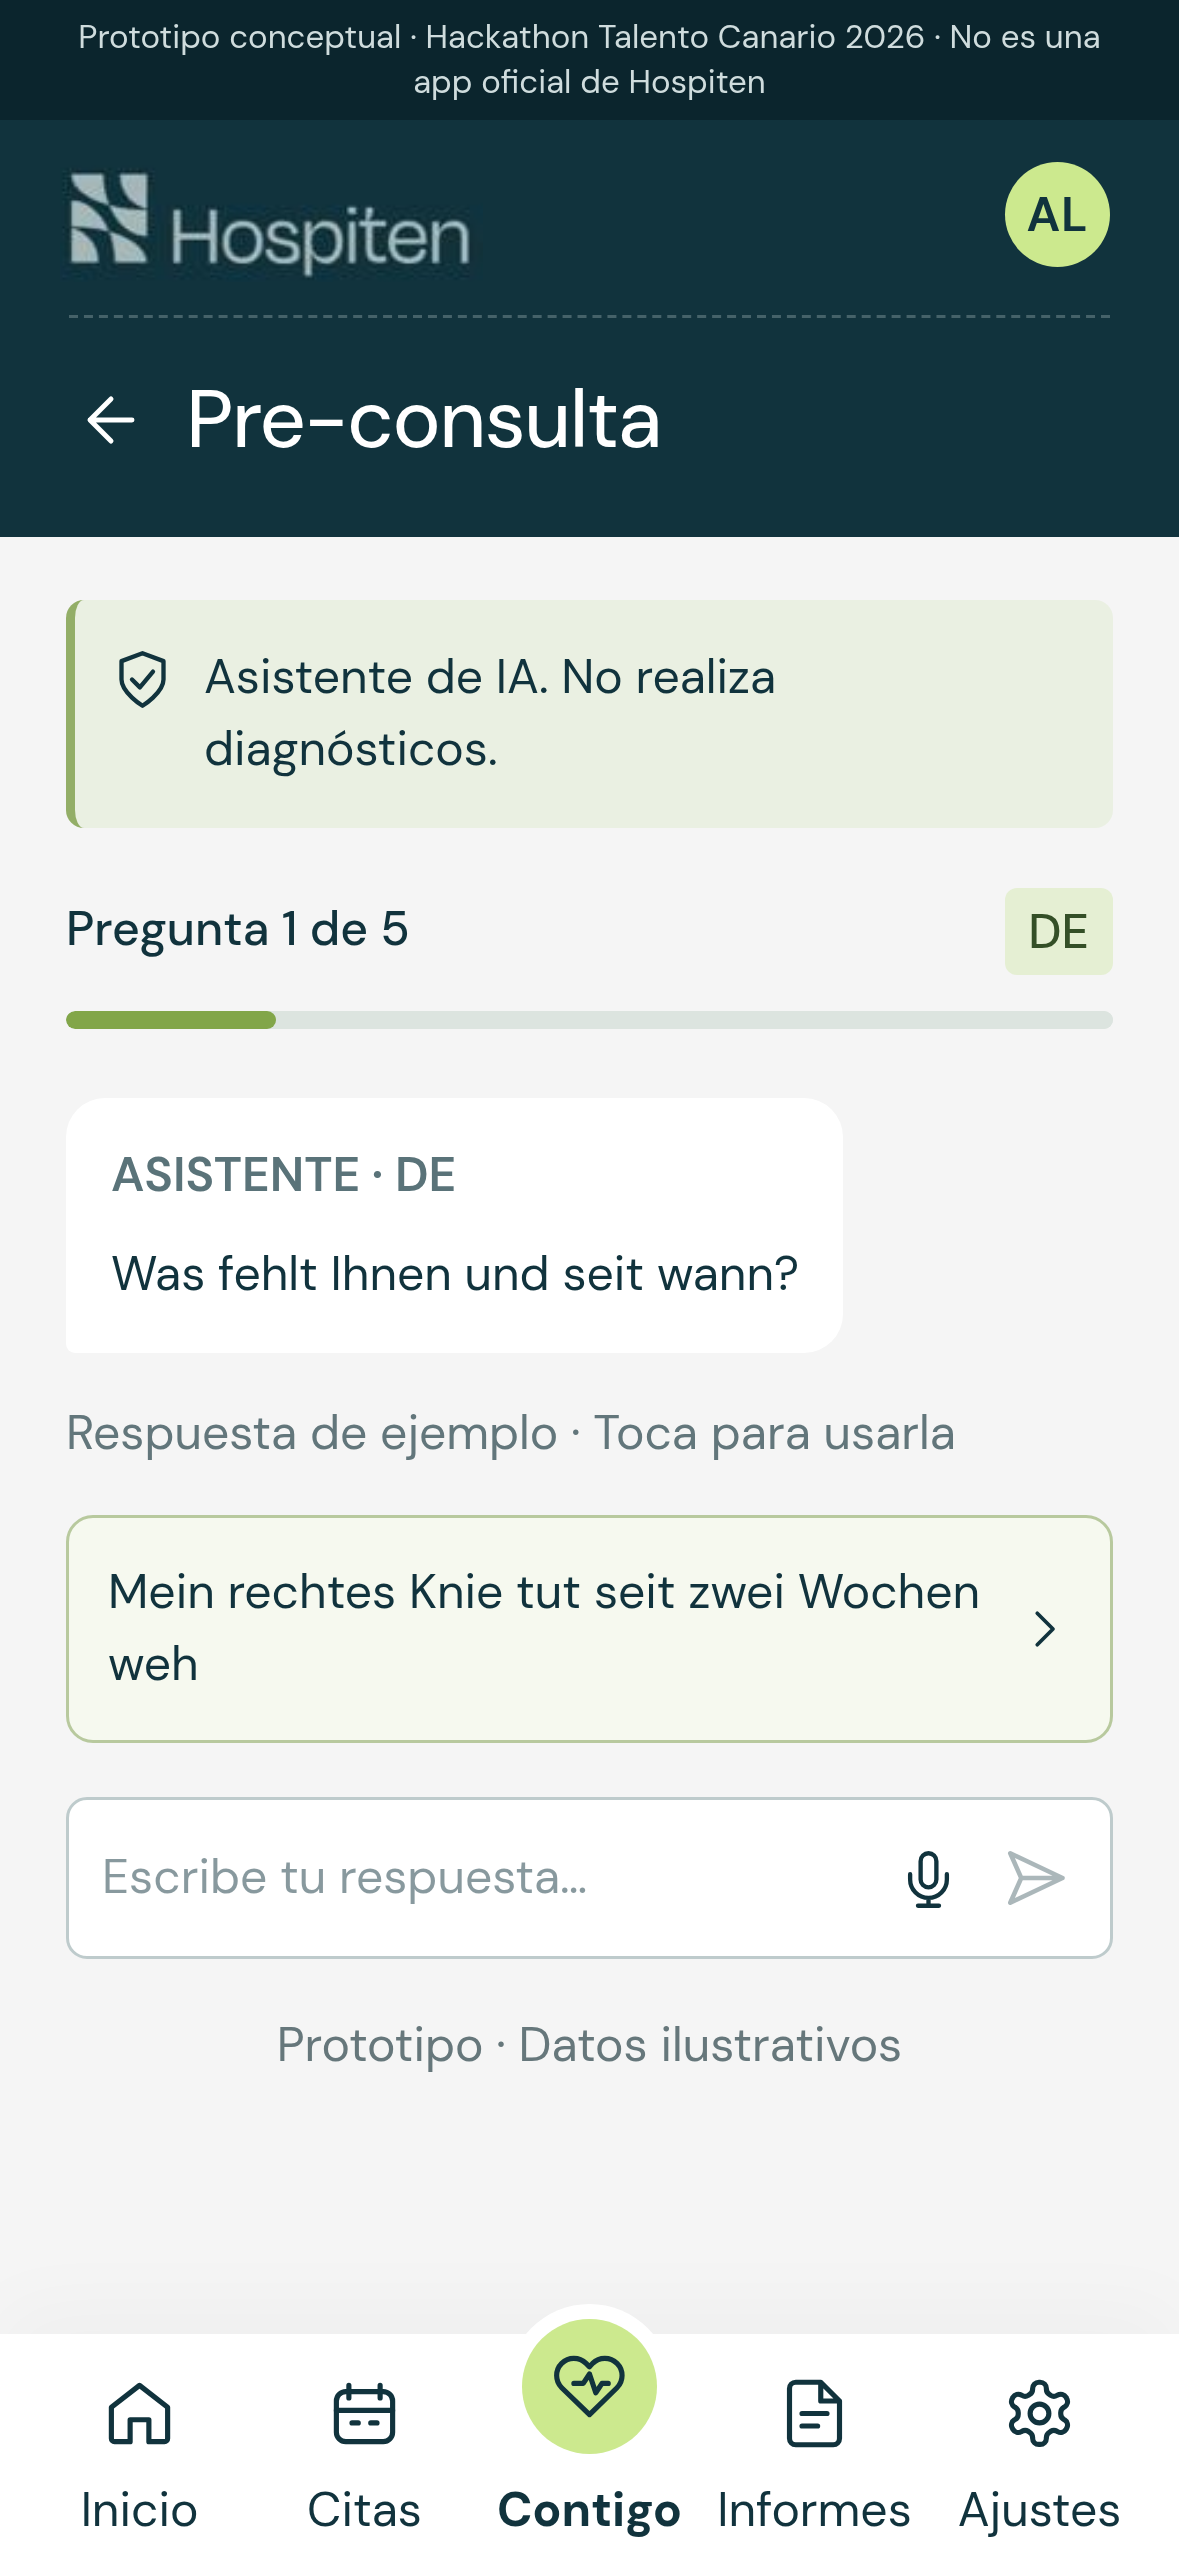
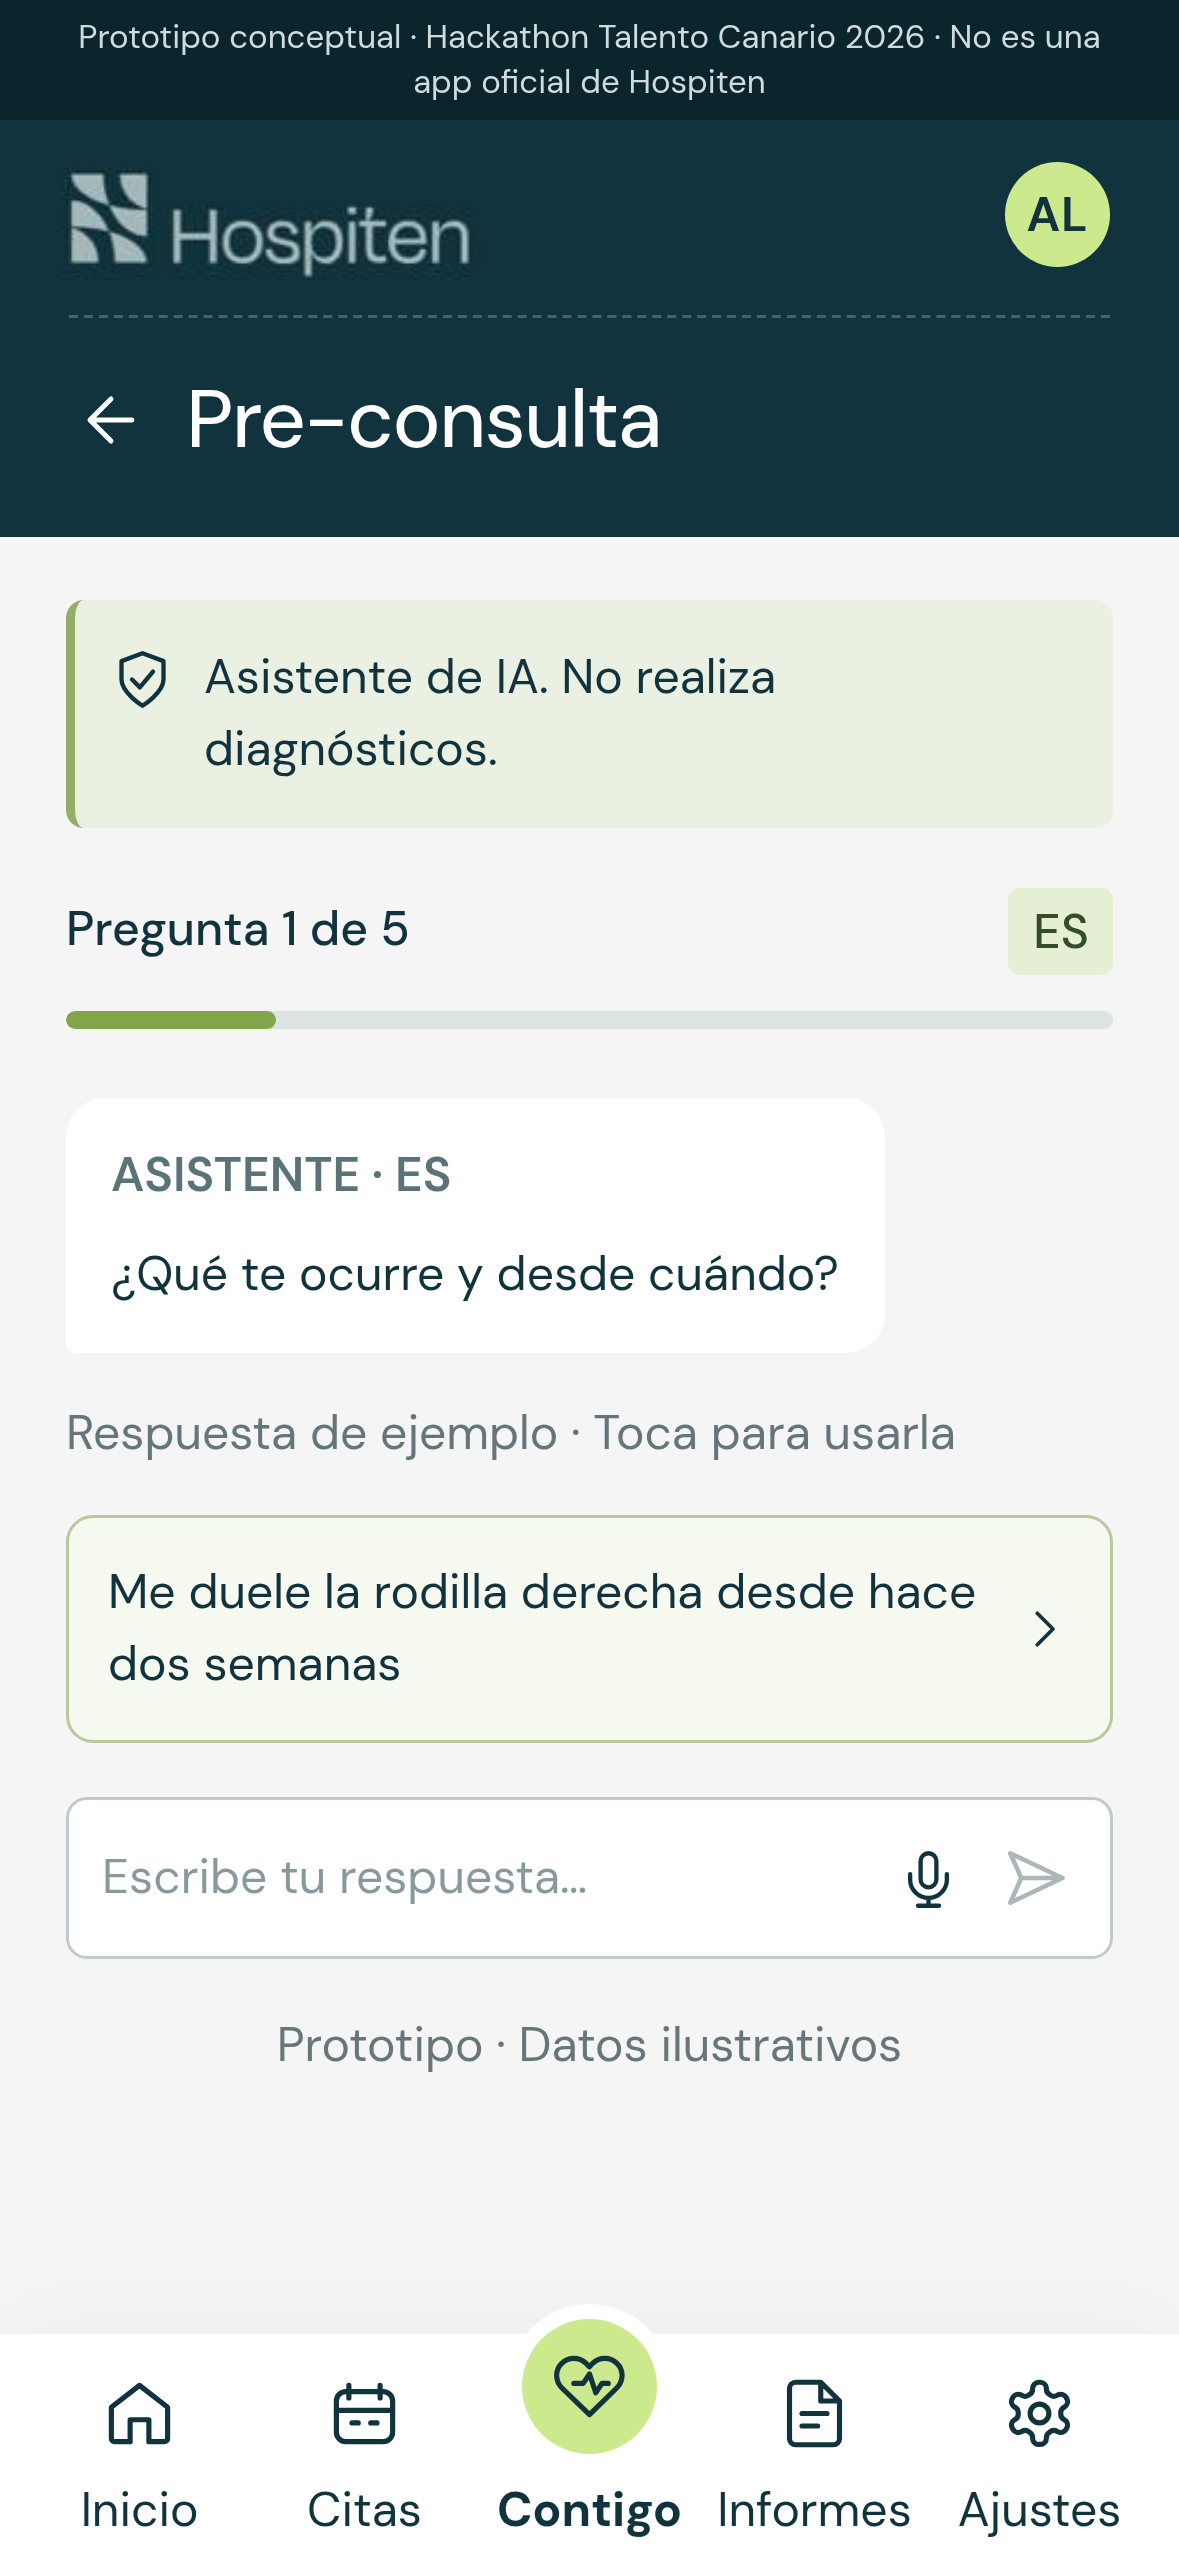
Regenera capturas con el selector de idioma y añade versiones en alemán e inglés

diff --git a/capturas/README.md b/capturas/README.md
@@ -1,5 +1,7 @@
 # Capturas para la presentación
 
-Tamaño móvil (393×852 px, escala 3x → 1179×2556) tomadas de https://stefanpuerner.github.io/hospiten-contigo/. Datos ficticios; el aviso "Prototipo conceptual · Hackathon Talento Canario 2026 · No es una app oficial de Hospiten" aparece en todas.
+Tamaño móvil (393×852 px, escala 3x → 1179×2556) tomadas de https://stefanpuerner.github.io/hospiten-contigo/. Datos ficticios; el aviso de prototipo aparece en todas, traducido al idioma de la app.
 
-Orden del flujo: 01-03 inicio y Contigo · 04-06 asistente telefónico · 07-10 pre-consulta · 11-12 turno y compartir · 13-14 traductor e intérprete · 15-17 informe explicado · 18 privacidad · 19 detalle de cita · 20 hablar con una persona.
+Orden del flujo (en español): 01-03 inicio y Contigo · 04-06 asistente telefónico · 07-10 pre-consulta · 11-12 turno y compartir · 13-14 traductor e intérprete · 15-17 informe explicado · 18-19 ajustes (idioma y privacidad) · 20 detalle de cita · 21 hablar con una persona.
+
+22-24 alemán y 25-27 inglés: inicio, asistente telefónico y pre-consulta, para mostrar que toda la app y el asistente cambian de idioma desde Ajustes.

diff --git a/HANDOFF.md b/HANDOFF.md
@@ -6,7 +6,7 @@ Prototipo web (React 19 + Vite 8 + Tailwind 4) de una app móvil para el **Hacka
 - **Repo y URL (desplegados 2026-10-22):** https://github.com/StefanPuerner/hospiten-contigo → https://stefanpuerner.github.io/hospiten-contigo/
 - **Publicación anterior (cuenta `DanielMaudesDomenech`, ya no se usa):** https://github.com/DanielMaudesDomenech/hospiten-contigo → https://danielmaudesdomenech.github.io/hospiten-contigo/
 - **QR:** `qr.png` (fuera del repo, en la carpeta padre) codifica la URL nueva (regenerado 2026-10-22, 1025 px, corrección M). Falta escanearlo con un móvil.
-- **Capturas para la presentación:** `capturas/` (20 PNG, 393×852 a 3x, tomadas de la URL publicada).
+- **Capturas para la presentación:** `capturas/` (27 PNG, 393×852 a 3x, tomadas de la URL publicada; incluye alemán e inglés).
 - **Origen:** exportado de Figma Make (`.figma/make/*` son restos de esa herramienta; solo `site.json` se usa en el build)
 
 ## Cambio de cuenta a StefanPuerner
